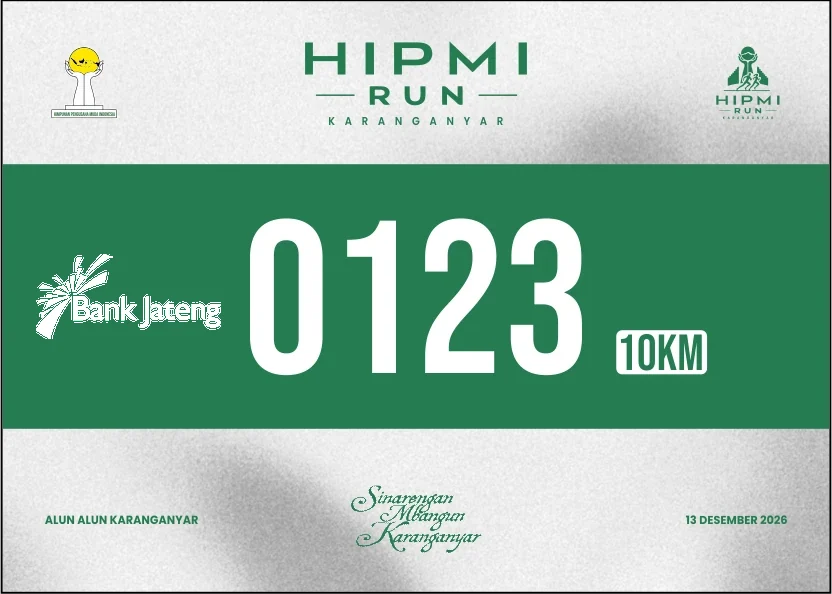
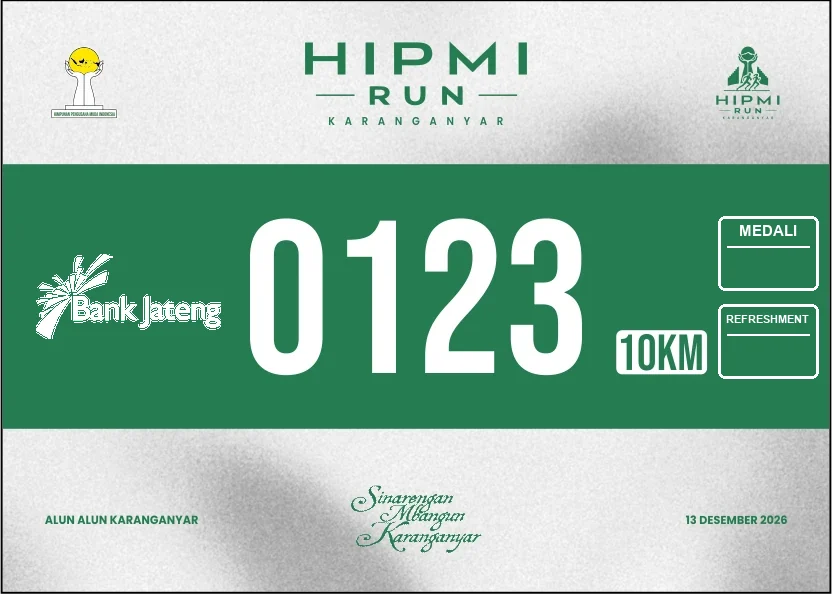
BIB berkotak ambil medali dan refreshment, thumbnail ganda dihapus
Nomor dada kini memuat dua kotak bukti pengambilan di sisi kanan pita nomor.
Modal detail produk tidak lagi menumpuk gambar utama dengan sudut pandang
pertama galeri, yang membuat thumbnail yang sama muncul dua kali.

Changed region(s): [[0.8438, 0.3636, 1.0, 0.6364]]

diff --git a/assets/js/beranda.js b/assets/js/beranda.js
@@ -34,8 +34,14 @@
     $('#pmName').textContent = p.name;
     $('#pmLead').textContent = p.lead;
 
-    // tampilan utama selalu menjadi sudut pandang pertama
-    views = [{ src: p.hero, alt: p.heroAlt, title: '', note: '' }].concat(p.gallery || []);
+    /* Tampilan utama menjadi sudut pandang pertama. Pada beberapa produk,
+       gambar utama memang sama dengan sudut pandang pertama di galeri; kalau
+       keduanya ditumpuk, thumbnail yang sama muncul dua kali. Dalam hal itu
+       galeri dipakai apa adanya, hanya alt gambar utamanya yang diambil. */
+    const galeri = p.gallery || [];
+    views = (galeri.length && galeri[0].src === p.hero)
+      ? [Object.assign({}, galeri[0], { alt: p.heroAlt })].concat(galeri.slice(1))
+      : [{ src: p.hero, alt: p.heroAlt, title: '', note: '' }].concat(galeri);
 
     $('#pmThumbs').innerHTML = views.length > 1
       ? views.map((v, i) =>

diff --git a/assets/js/data.js b/assets/js/data.js
@@ -340,8 +340,8 @@ window.HIPMI = (function () {
       hero: IMG + 'bib-10k.webp',
       heroAlt: 'Desain nomor dada 10K HIPMI RUN Karanganyar.',
       gallery: [
-        { src: IMG + 'bib-10k.webp', title: 'Kategori 10K', note: 'Pita nomor hijau, logo Bank Jateng di sisi kiri' },
-        { src: IMG + 'bib-5k.webp',  title: 'Kategori 5K',  note: 'Pita nomor putih, logo Bank Jateng di sisi kiri' }
+        { src: IMG + 'bib-10k.webp', title: 'Kategori 10K', note: 'Pita nomor hijau, logo Bank Jateng di kiri, kotak ambil medali dan refreshment di kanan' },
+        { src: IMG + 'bib-5k.webp',  title: 'Kategori 5K',  note: 'Pita nomor putih, logo Bank Jateng di kiri, kotak ambil medali dan refreshment di kanan' }
       ],
       specs: [
         { k: 'Kode QR',    v: 'Scan for results, membuka halaman hasil' },
